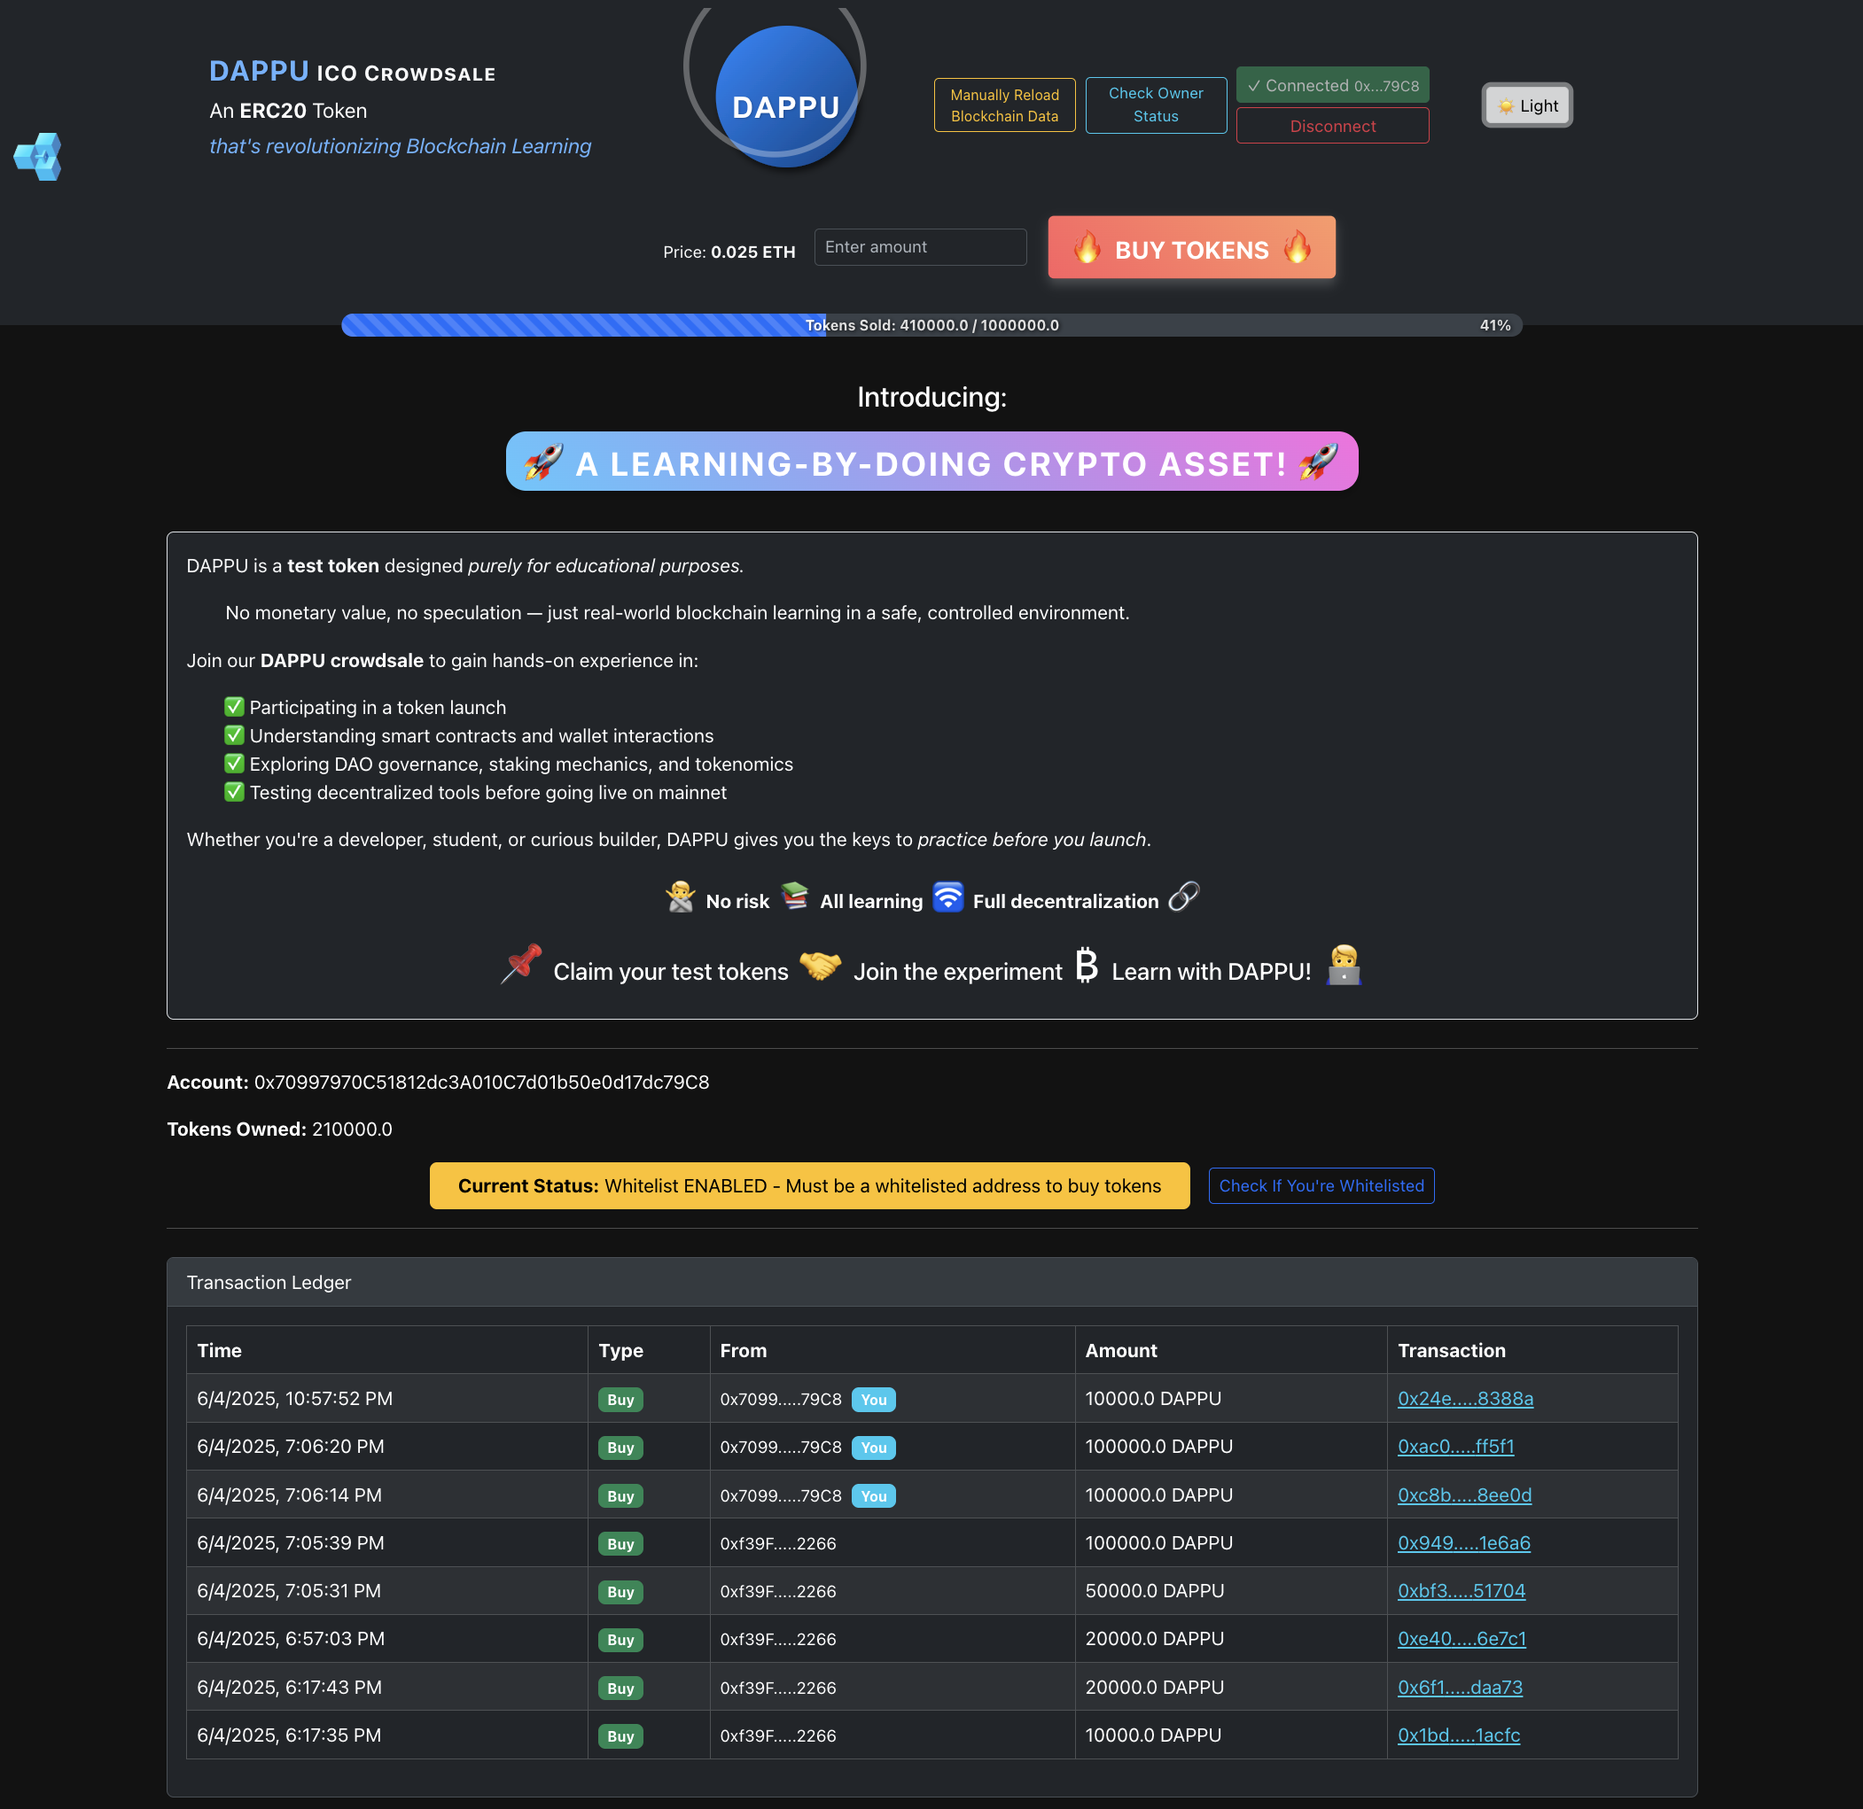
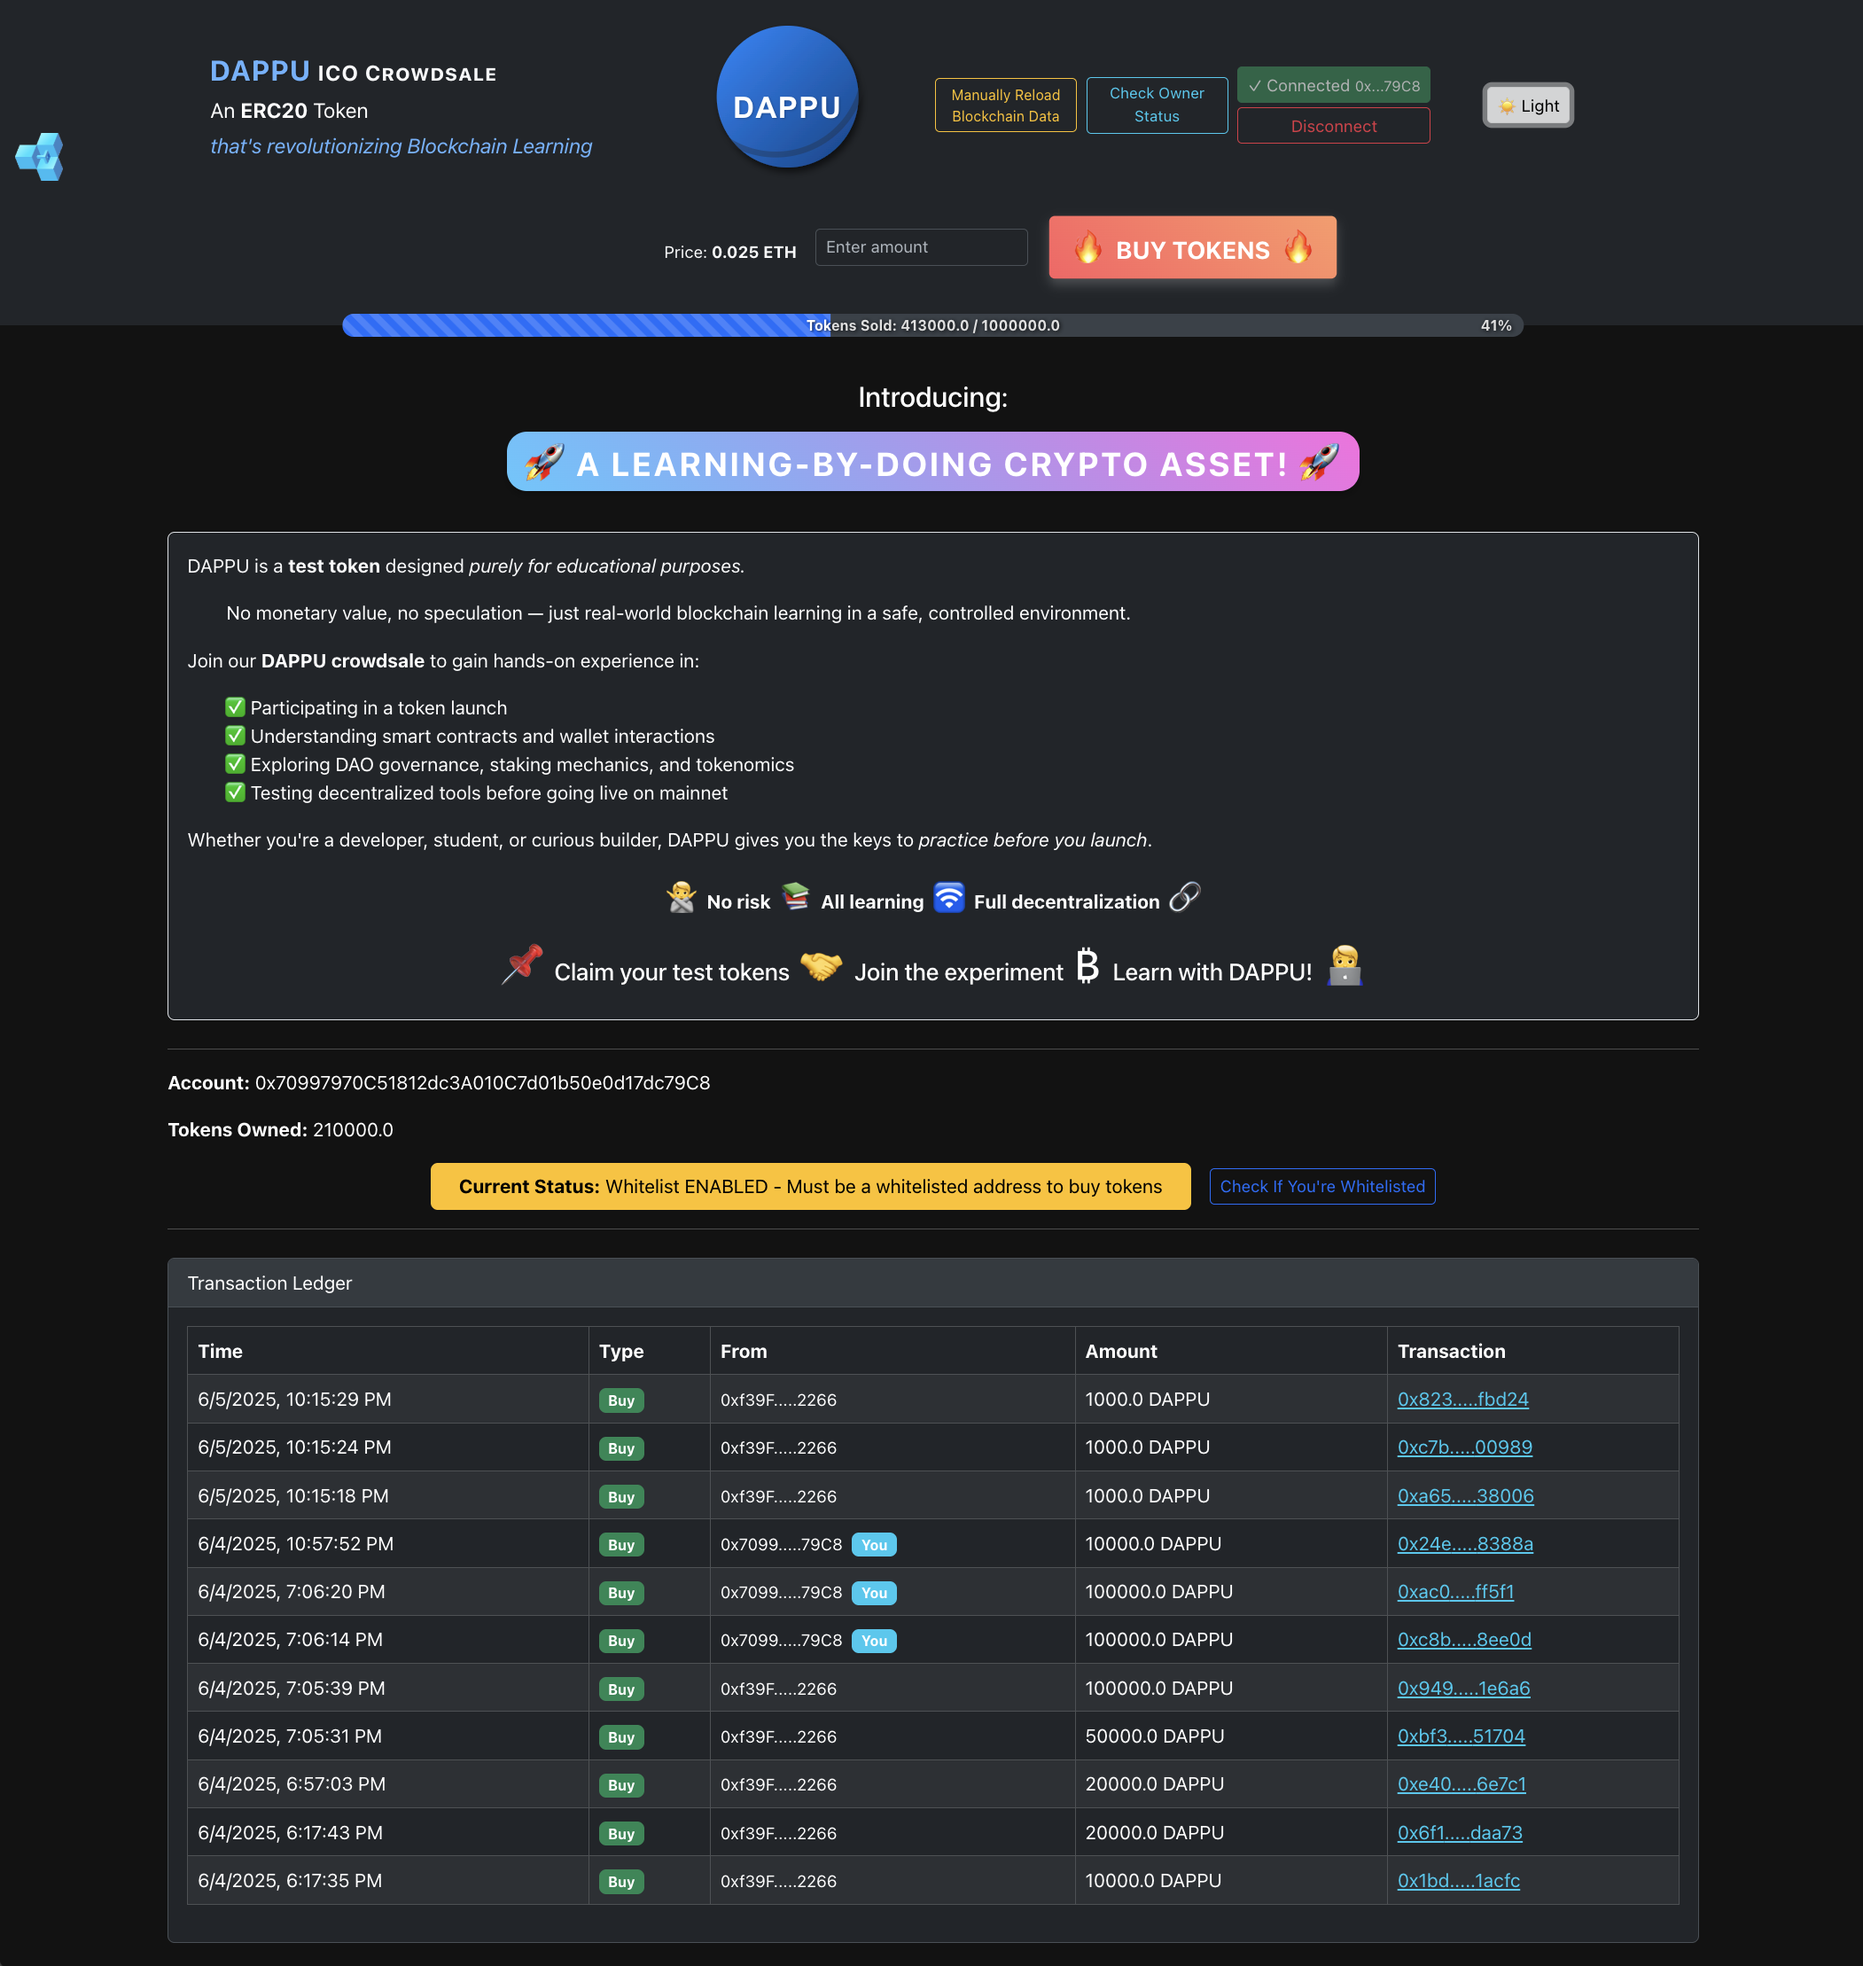
😉

diff --git a/src/components/Navigation.js b/src/components/Navigation.js
@@ -124,7 +124,14 @@ const Navigation = ({
                     <circle cx="125" cy="70" r="60" fill="url(#circleGradient)" filter="url(#shadow)" />
                     
                     {/* Highlight for 3D effect */}
-                    <circle cx="115" cy="44" r="75" fill="none" stroke="rgba(255,255,255,0.3)" strokeWidth="5" />
+                    <circle 
+                        cx="115" 
+                        cy="44" 
+                        r="75" 
+                        fill="none" 
+                        stroke={darkMode ? "rgba(33,37,41,0.3)" : "rgba(255,255,255,0.3)"} 
+                        strokeWidth="5" 
+                    />
                     
                     {/* DAPPU text */}
                     <text x="125" y="88" fontFamily="Arial" fontSize="25" fontWeight="bold" fill="white" textAnchor="middle">DAPPU</text>

diff --git a/README.md b/README.md
@@ -9,15 +9,14 @@ This project implements an Ethereum-based token crowdsale system using Hardhat a
 
 ## Screenshots
 
-### Main Application
+### Main Application:
 ![DAPPU Crowdsale Main Screen](/screenshots/main-screen.png)
 
-### Admin Panel
+### Admin Panel:
 ![Admin Whitelist Management](/screenshots/admin-panel.png)
 
-### Dark Mode
+### Dark Mode:
 ![Application in Dark Mode](/screenshots/dark-mode.png)
-
 
 ## 🔰 Beginner's Guide
 
